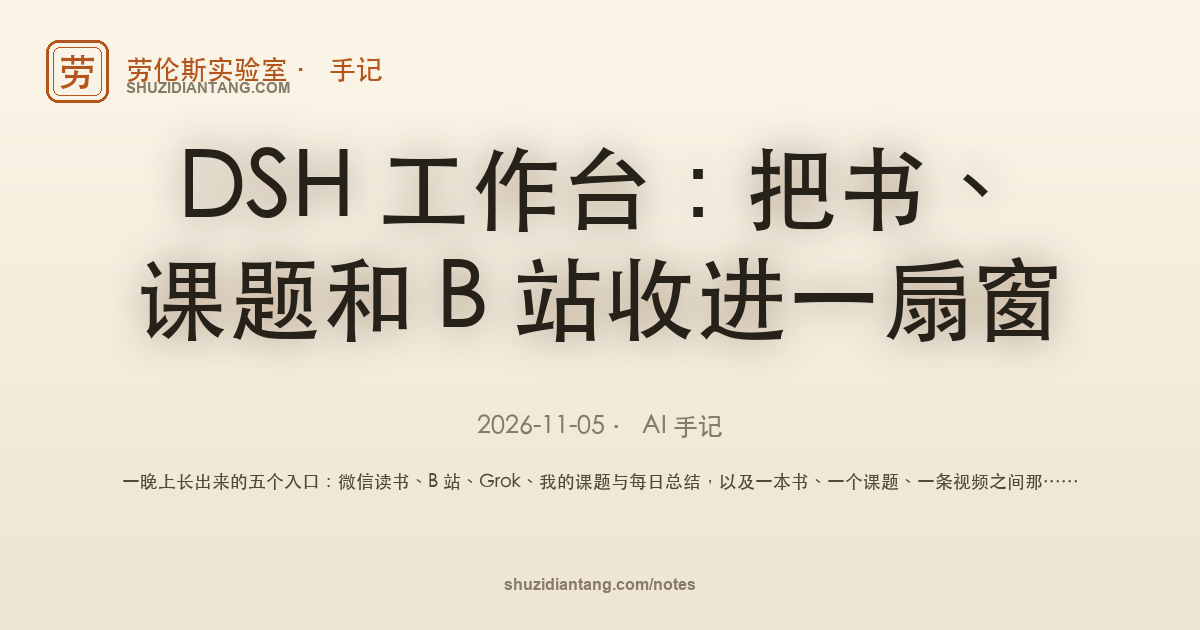
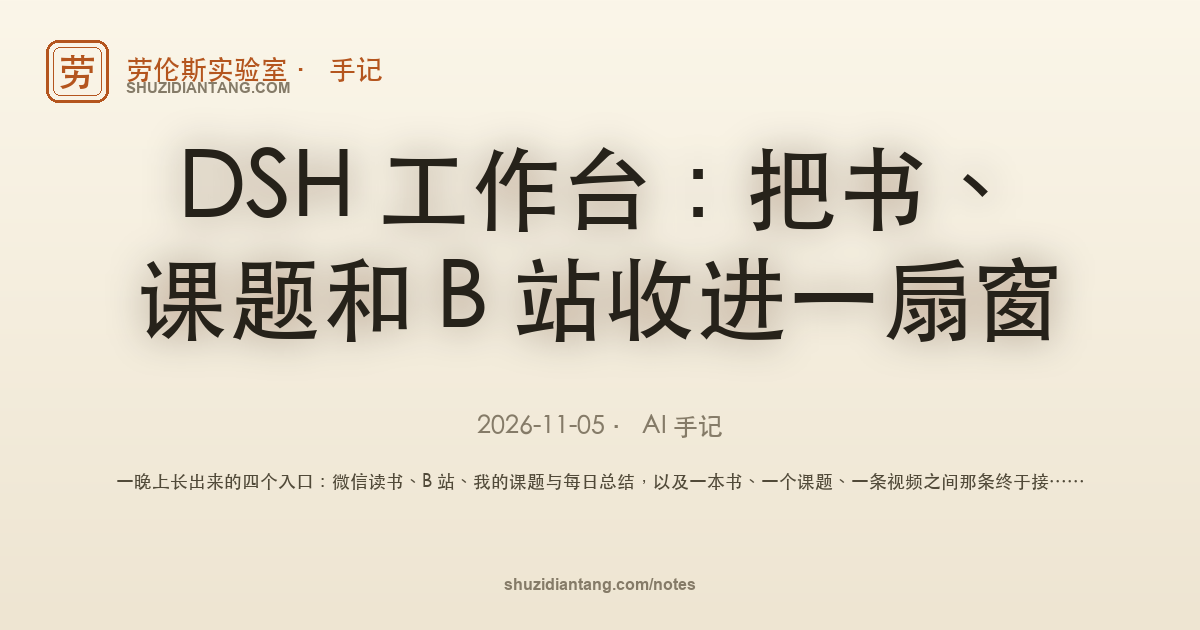
Update note: credit DSH creation mode; refresh word count and OG share image

Changed region(s): [[0.0925, 0.754, 0.8942, 0.7841]]

diff --git a/notes/2026-11-05-dsh-workbench.html b/notes/2026-11-05-dsh-workbench.html
@@ -89,7 +89,7 @@
 <main>
   <article>
     <h1>DSH 工作台：把书、课题和 <span class="nw">B 站</span>收进一扇窗</h1>
-    <p class="meta"><time datetime="2026-11-05">2026-11-05</time> · 约 960 字 · 分类：AI 手记</p>
+    <p class="meta"><time datetime="2026-11-05">2026-11-05</time> · 约 660 字 · 分类：AI 手记</p>
     <div class="article-copy">
 <p>晚上十一点四十二，我截了这张图：左边是 DSH 侧栏里的微信读书、B 站、我的课题、每日总结，右边是书架里的 322 本书，和其中一本在 B 站的 19 个书评视频。从「我在读什么」到「别人怎么看这本书」，只隔一次点击。</p>
 <p>在这之前，它们分在三个地方：微信读书、文件夹和 B 站的搜索框。</p>
@@ -99,7 +99,7 @@
 </figure>
 <h2>一、插件不是补丁，是地基</h2>
 <p>插件让 DSH 不止是个智能工作台：装上插件，界面里就能长出侧栏入口、整页面板和浮在界面上的小窗。插件是个小目录：后台那一半跑在 DSH 进程里取数据、读文件、写缓存，页面那一半负责画界面，两边用只读接口传数据，装、停、回滚都不碰主程序。</p>
-<p>这些插件不是我一个个敲的——我说清需求，小深写、装、测，刷新就能用。20:02 我提「把微信读书接进来」，20:15 面板就能看书架；20:21 提「在下面关联 B 站」，六分四十四秒后装好了。一个晚上，四个入口。</p>
+<p>这些插件不是我一个个敲的——是 DSH 创造模式在做的：我说清需求，它写、装、测，刷新就能用。20:02 我提「把微信读书接进来」，20:15 面板就能看书架；20:21 提「在下面关联 B 站」，六分四十四秒后装好了。一个晚上，四个入口。</p>
 <h2>二、四个入口</h2>
 <p><strong>微信读书</strong>是只读的阅读面板：书架、笔记、统计、设置四个页签。322 本书，有笔记 7 本；统计页里是 846 天、约 340 小时。密钥只存本机，点「同步」才拉一次。</p>
 <p><strong>B 站</strong>是它的邻居：选中一本书，先看它的划线、想法、书签和读到哪儿，再按「书评 / 解读 / 作者 / 书名」搜视频。视频能在内嵌播放器里直接看，点星标收进本地片单；不登录，只用公开接口。</p>
